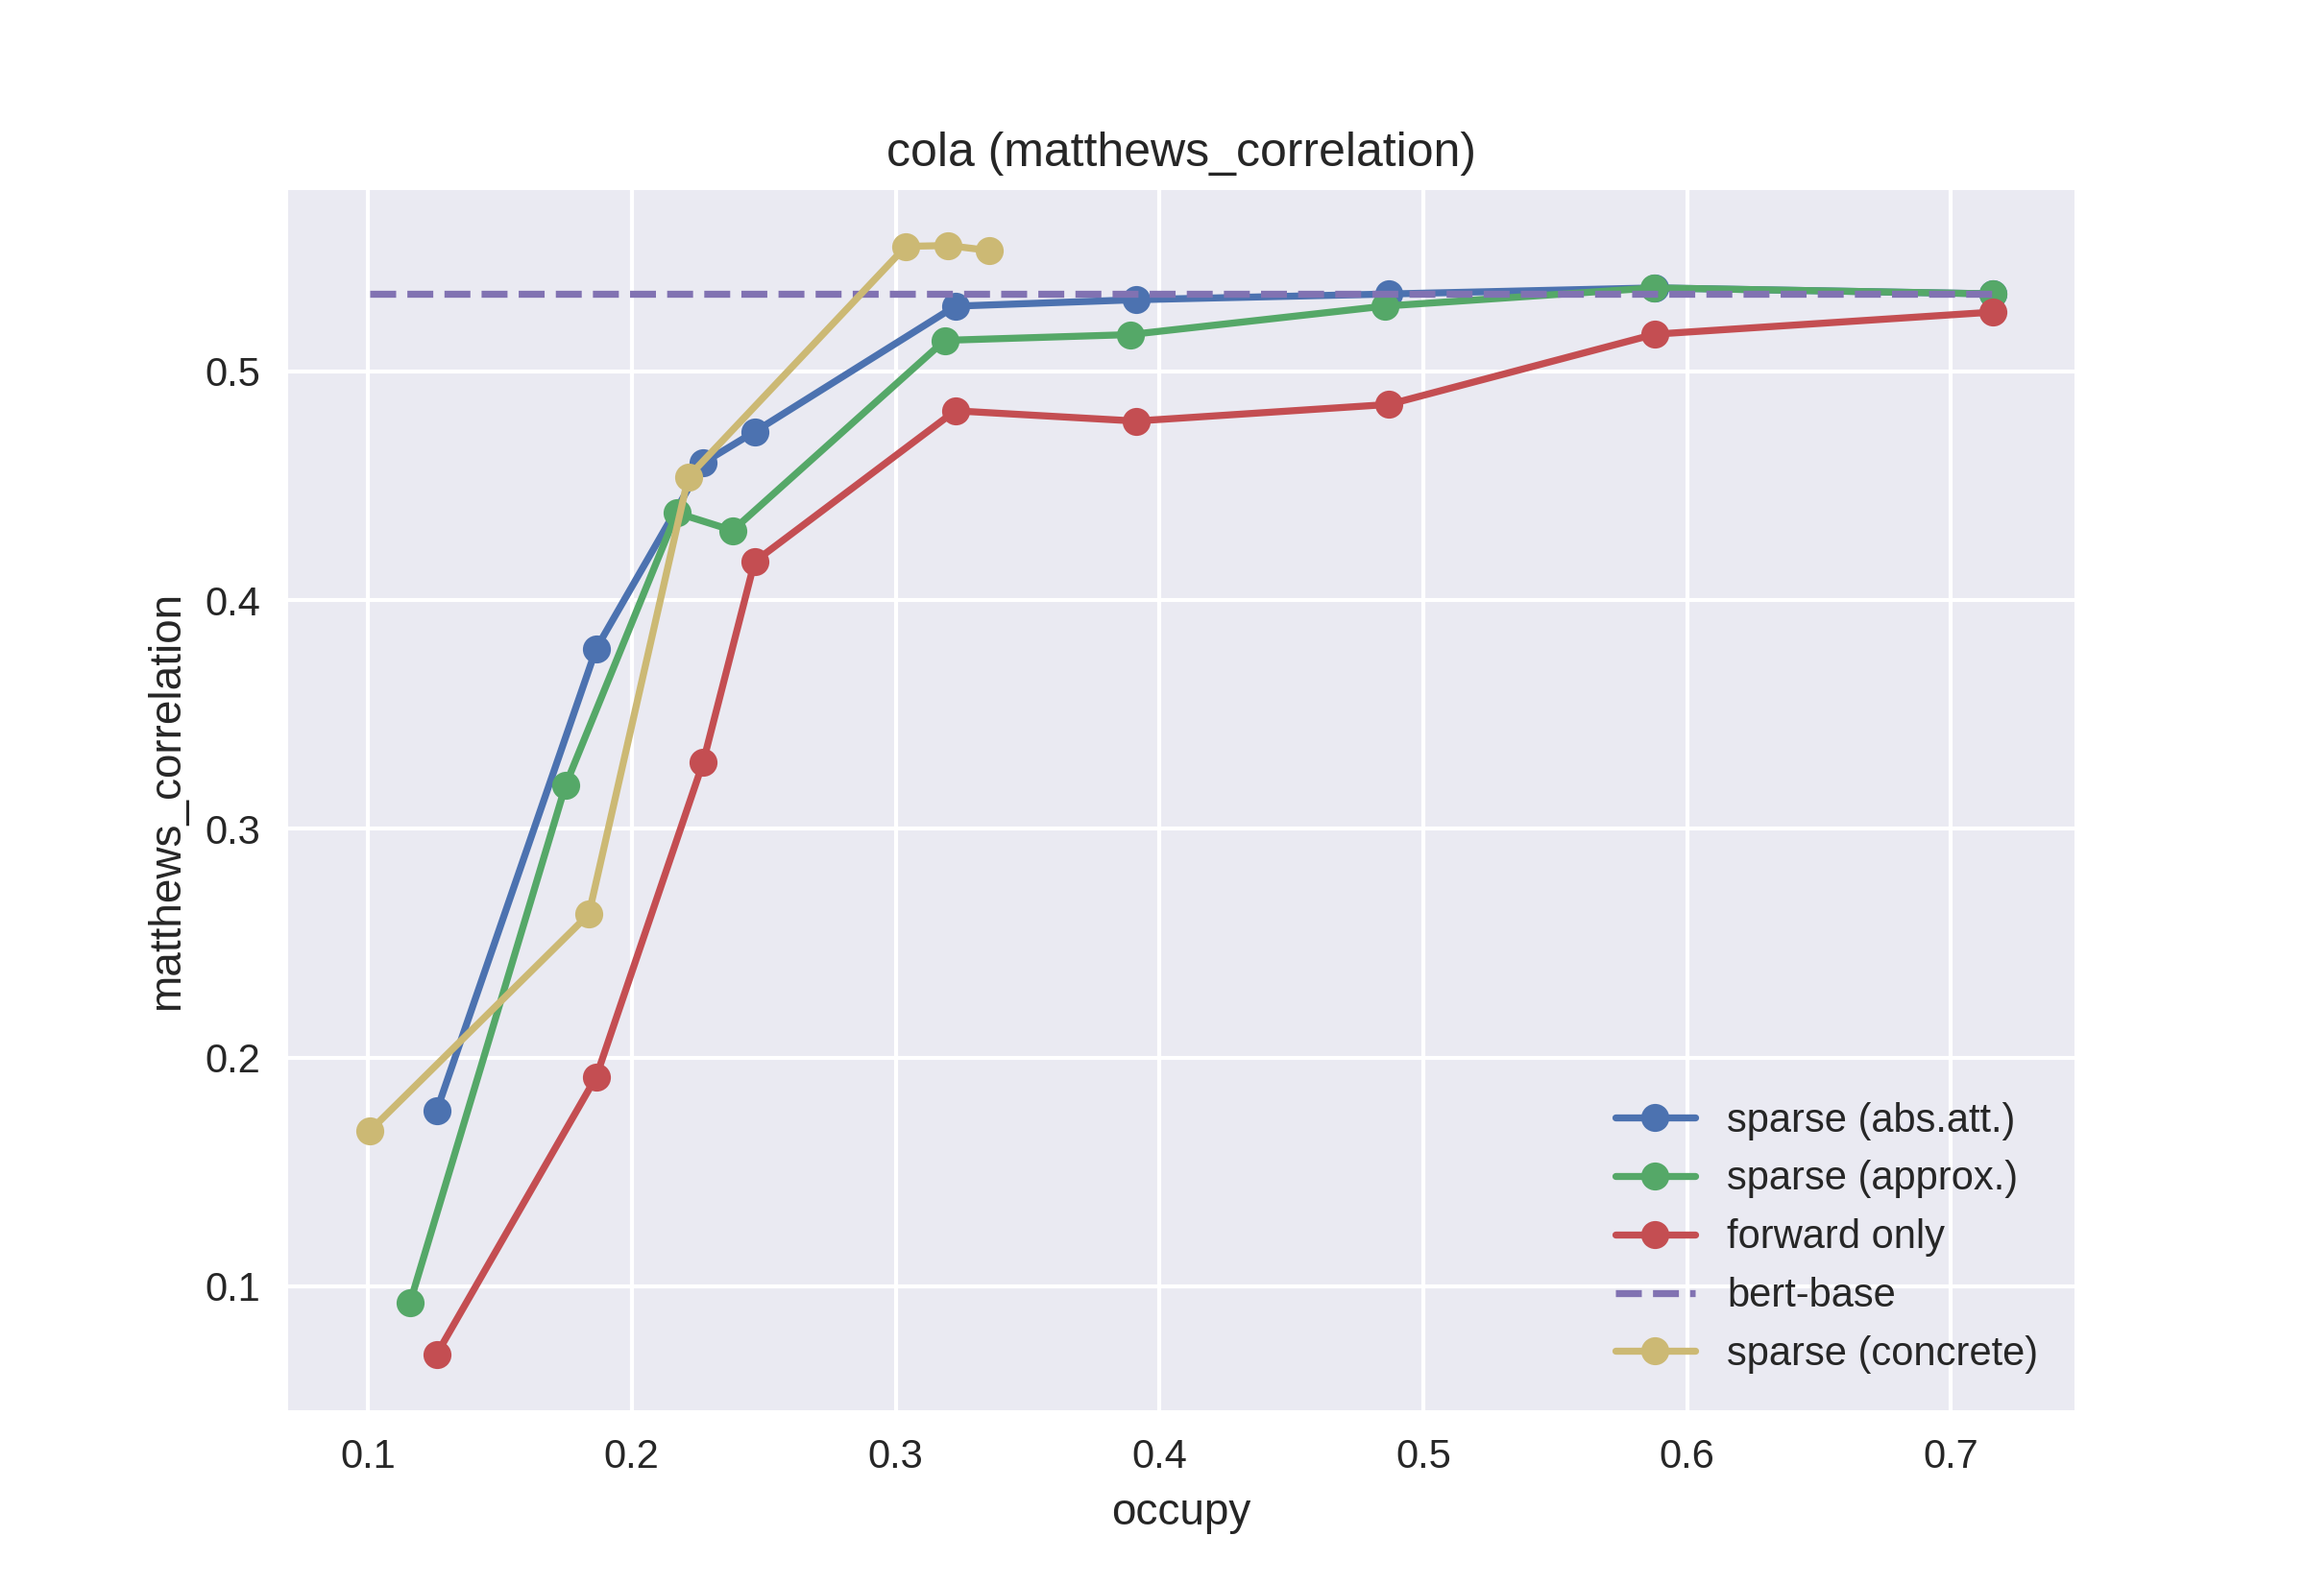
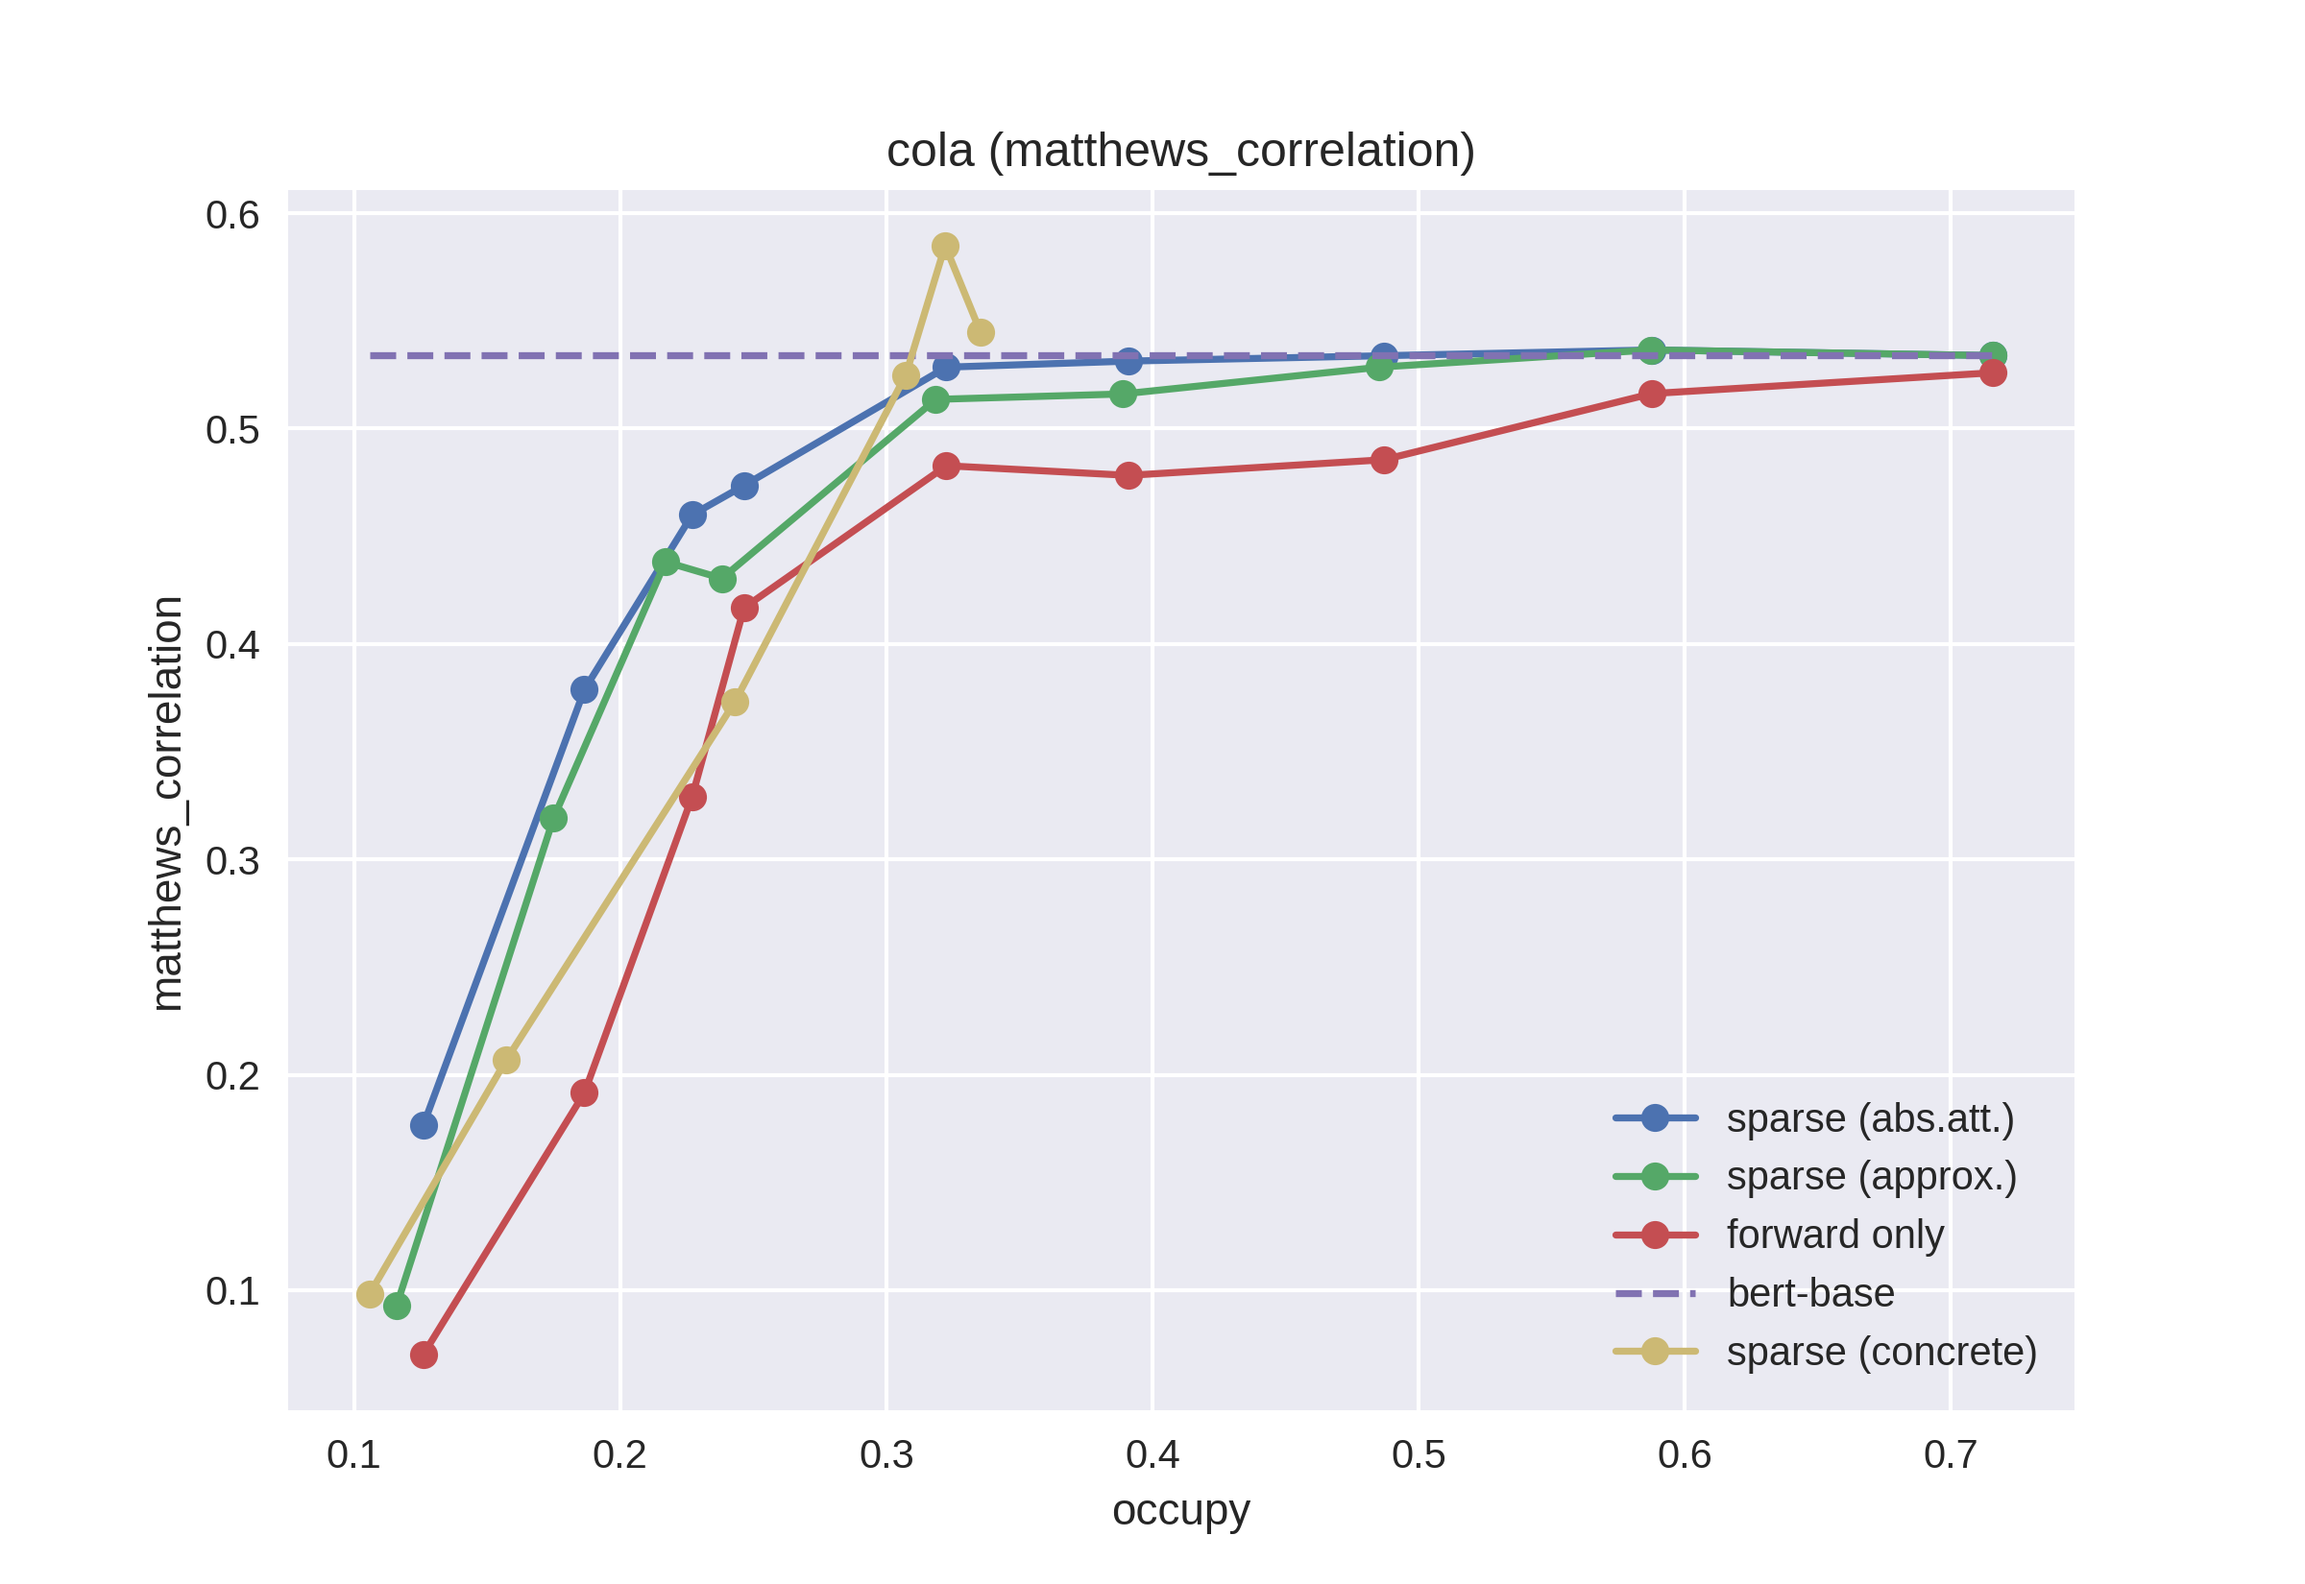
tried sst2

diff --git a/models/sparse_token.py b/models/sparse_token.py
@@ -346,6 +346,7 @@ class BertSelfAttention(nn.Module):
         #self.query.force_dense = self.key.force_dense = self.value.force_dense = False
     
     def reset_input_mask(self):
+        self.concrete_input_mask = None
         self.input_mask = None
         self.input_indices = None
         self.input_impacts = None
@@ -452,6 +453,10 @@ class BertSelfAttention(nn.Module):
         timer_start('bert.attention.probs.dropout')
         attention_probs = self.dropout(attention_probs)
         timer_end('bert.attention.probs.dropout')
+
+        if self.concrete_input_mask is not None:
+            N, H, T, _ = attention_probs.shape
+            attention_probs = attention_probs * self.concrete_input_mask.view(N, 1, 1, T)
 
         # Mask heads if we want to
         if head_mask is not None:
@@ -1455,7 +1460,7 @@ def run_bert_with_concrete(
     last_layer.output.dense.concrete_mask_hard = last_mask_un
     last_layer.intermediate.dense.concrete_mask = last_mask_un
     last_layer.attention.output.dense.concrete_mask = last_mask_un
-    #last_layer.attention.self.query.concrete_mask = last_mask_un
+    last_layer.attention.self.query.concrete_mask = last_mask_un
     if BENCHMARK_CONCRETE_OCCUPY: 
         with torch.no_grad():
             benchmark_cum('concrete_occupy', last_mask_un.mean())
@@ -1572,18 +1577,10 @@ def run_bert_with_concrete(
         if prev_layer is not None: # if not top layer
             prev_layer.output.dense.concrete_mask = current_mask_un
             prev_layer.output.dense.concrete_mask_hard = current_mask_hard
-        # if current_mask_hard is None:
-        #     layer.attention.self.input_mask = current_mask_un.squeeze(-1)
-        # else:
-        #     layer.attention.self.input_mask = current_mask_hard.squeeze(-1)
-        
-        # if prev_layer is not None: # if not top layer
-        #     prev_layer.output.dense.concrete_mask = current_mask_un
-        #     prev_layer.output.dense.concrete_mask_hard = current_mask_hard
         
         if prev_layer is not None:
-            # prev_layer.attention.self.query.concrete_mask = current_mask_un
-            # prev_layer.attention.self.query.concrete_mask_hard = current_mask_hard
+            prev_layer.attention.self.query.concrete_mask = current_mask_un
+            prev_layer.attention.self.query.concrete_mask_hard = current_mask_hard
 
             prev_layer.attention.output.dense.concrete_mask = current_mask_un
             prev_layer.attention.output.dense.concrete_mask_hard = current_mask_hard
@@ -1591,11 +1588,16 @@ def run_bert_with_concrete(
             prev_layer.intermediate.dense.concrete_mask = current_mask_un
             prev_layer.intermediate.dense.concrete_mask_hard = current_mask_hard
         
-        # layer.attention.self.key.concrete_mask = current_mask_un
-        # layer.attention.self.key.concrete_mask_hard = current_mask_hard
+        # if current_mask_hard is None:
+        #     layer.attention.self.concrete_input_mask = current_mask_un.squeeze(-1)
+        # else:
+        #     layer.attention.self.concrete_input_mask = current_mask_hard.squeeze(-1)
         
-        # layer.attention.self.value.concrete_mask = current_mask_un
-        # layer.attention.self.value.concrete_mask_hard = current_mask_hard
+        layer.attention.self.key.concrete_mask = current_mask_un
+        layer.attention.self.key.concrete_mask_hard = current_mask_hard
+        
+        layer.attention.self.value.concrete_mask = current_mask_un
+        layer.attention.self.value.concrete_mask_hard = current_mask_hard
 
         last_mask = current_mask
     
